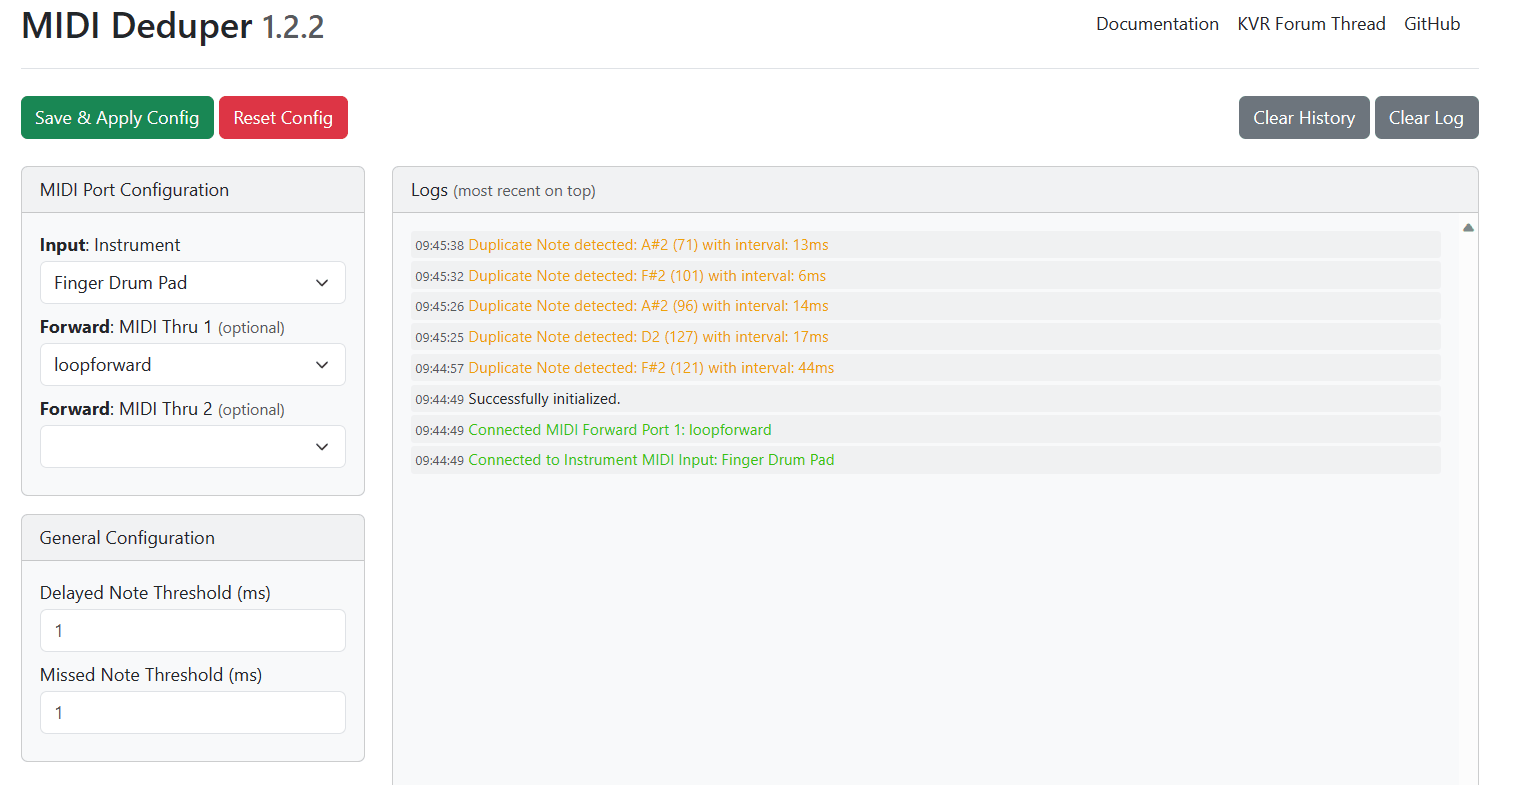
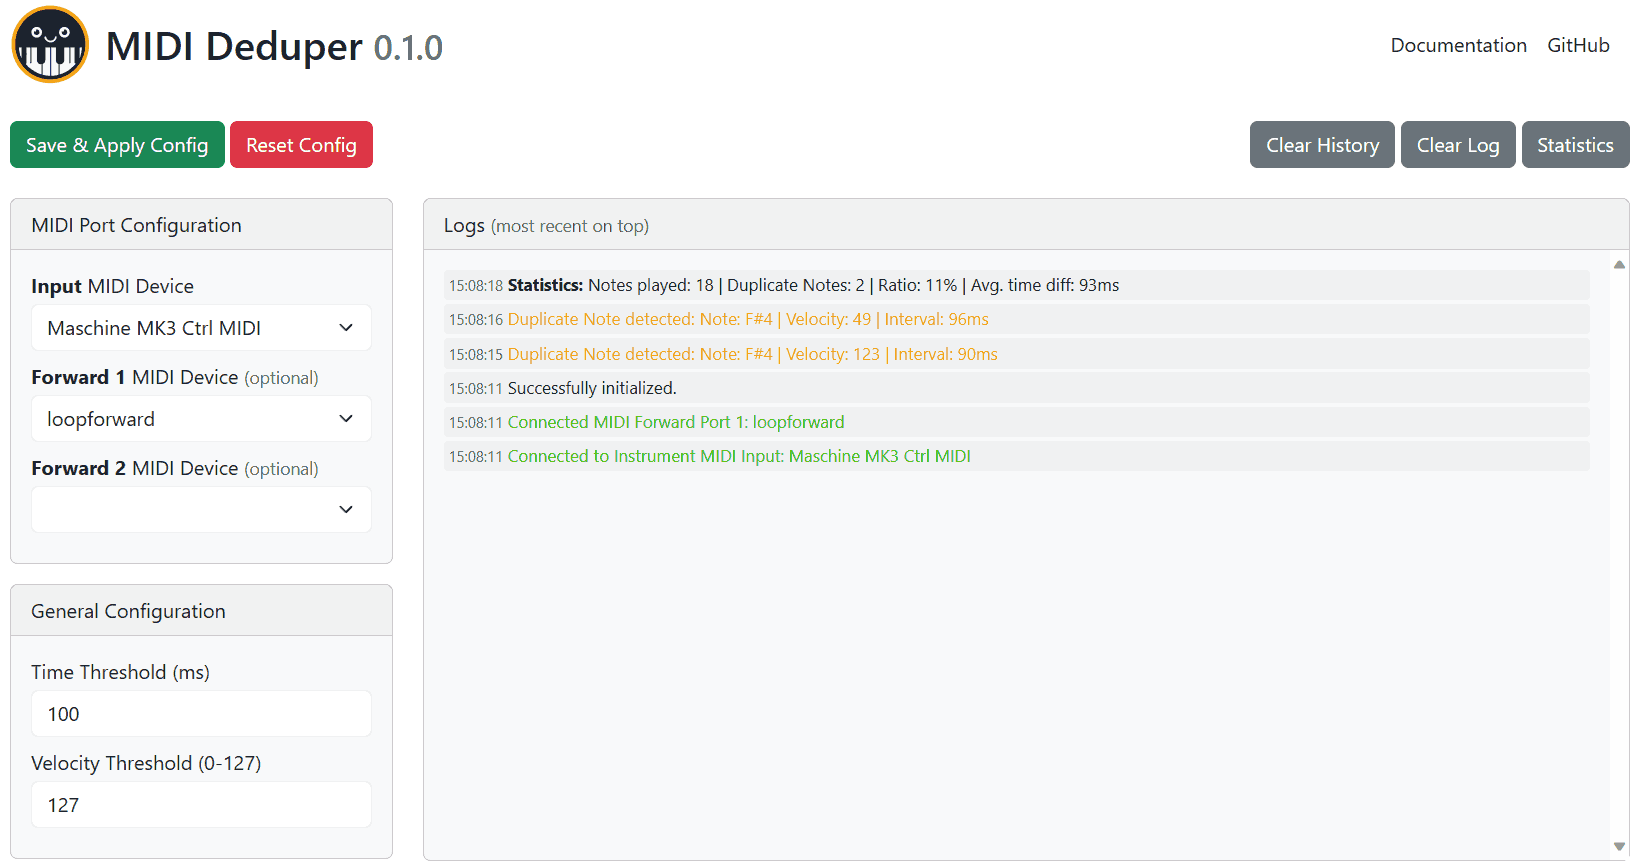
Updated screenshot

diff --git a/web/src/statistics.js b/web/src/statistics.js
@@ -22,4 +22,6 @@ export function calculateStatistics() {
   let output = `<strong>Statistics:</strong> `
   output += `Notes played: ${stats.notesPlayed} | Duplicate Notes: ${stats.duplicatedNotes} | Ratio: ${Math.round(stats.avgDuplicatedNoteRatio * 100)}% | `
   output += `Avg. time diff: ${stats.avgTimeDiff || 0}ms`
+
+  log.info(output)
 }

diff --git a/README.md b/README.md
@@ -5,6 +5,11 @@
 This [web app](https://fannon.github.io/midi-deduper/) allows you to de-duplicate accidental MIDI double triggers, as caused e.g. by some MIDI pad controllers.
 It runs on any modern [Web MIDI enabled browser](https://caniuse.com/midi). 
 
+Why did I create this project? I have a (finger) drum pad controller, which tends to produce accidental double triggers. 
+This is actually not uncommon for pad controllers, especially when the sensitivity is increased / high. 
+
+Such accidental double triggers may be annoying when recording, but will also especially cause problems when playing with [Melodics](https://melodics.com/) or similar software that scores you on correct playing.
+
 ## Screenshot
 
 ![Synthesia Light Guide](./assets/screenshot.png)
